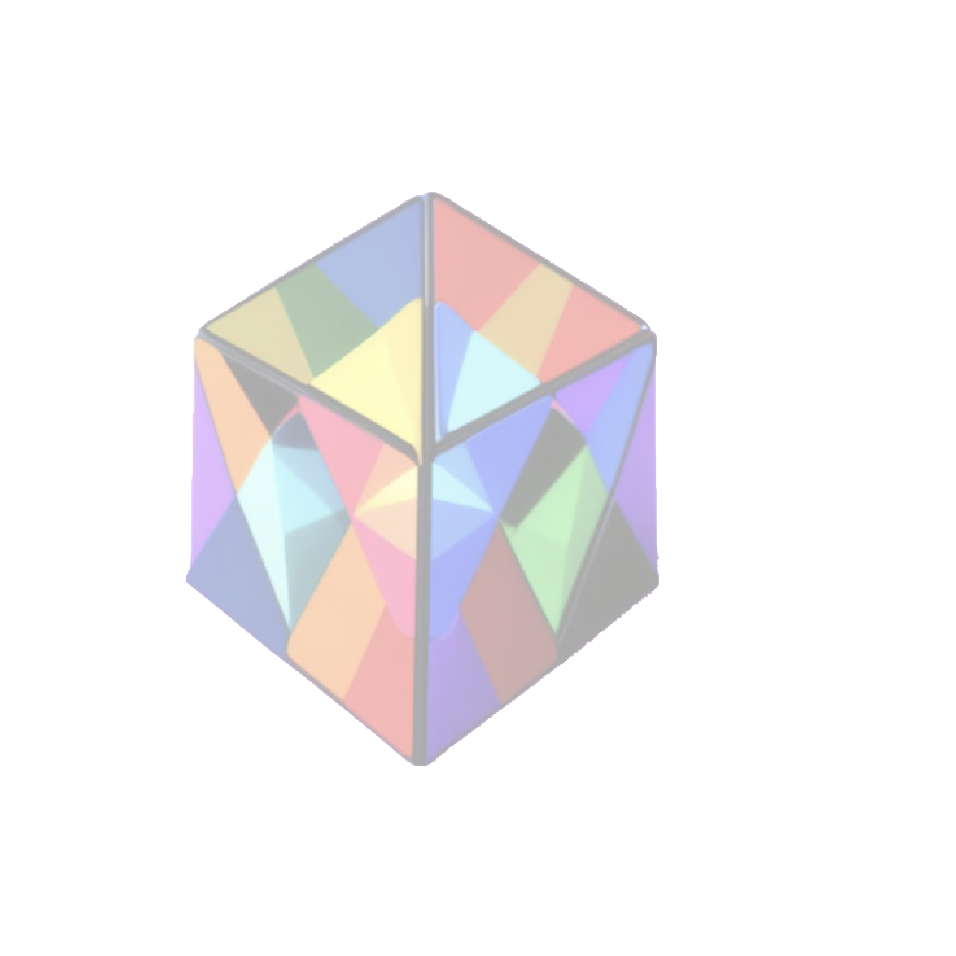
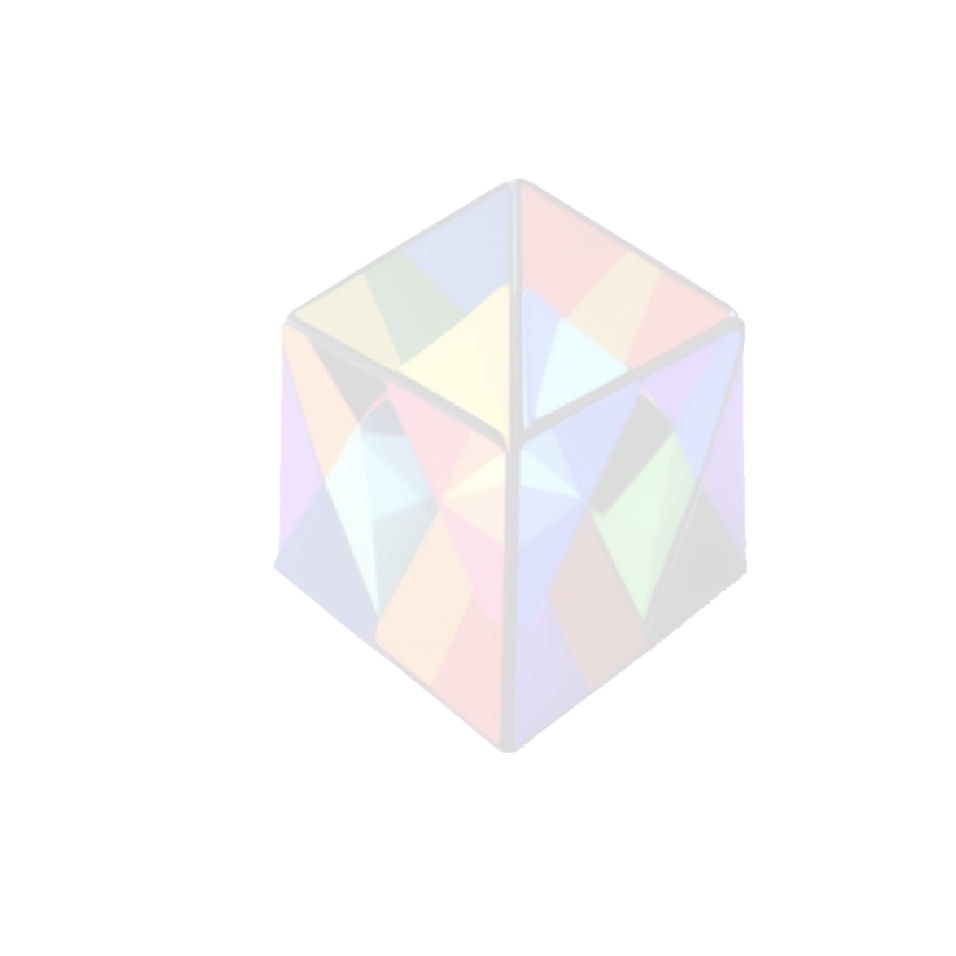
fix the background image

Changed region(s): [[0.182, 0.182, 0.7887, 0.819]]

diff --git a/public/src/components/mission.jsx b/public/src/components/mission.jsx
@@ -32,7 +32,7 @@ const Mission = (props) => {
             <li>Personalized support</li>
             <li>Evidence-based strategies</li>
             <li>Fostering inclusivity and acceptance</li>
-            <li>A person-centered apprach to ABA</li>
+            <li>A person-centered approach to ABA</li>
           </ul>
         </Typography>
         <Box sx={{paddingRight: '30px'}}>

diff --git a/public/src/App.jsx b/public/src/App.jsx
@@ -42,7 +42,8 @@ const App = () => {
     </center>}>
       <Fade in={true}>
         <div style={{
-          backgroundImage: `url(${cube})`,
+          background: 'rgb(251,247,245)',
+          backgroundImage: ` url(${cube})`,
           backgroundSize: '20%',
           overflow: 'hidden'
         }}>
